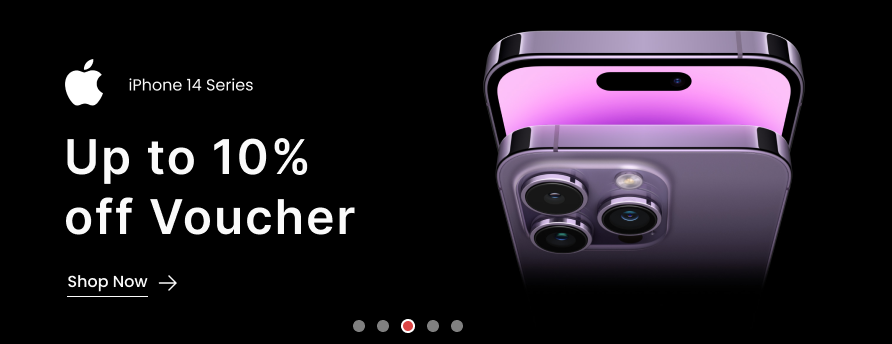
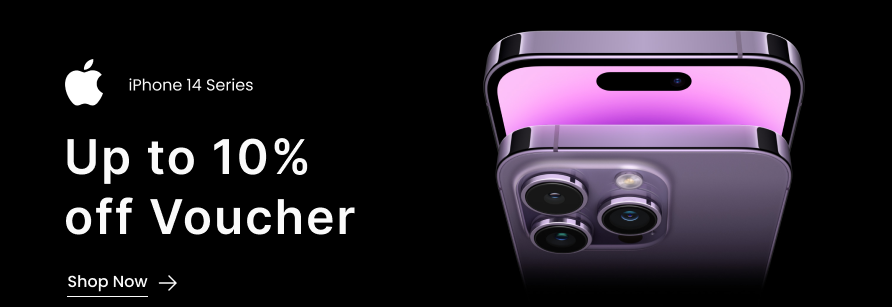
Feat: Enhance product card layout and add new styles for improved design

diff --git a/index.html b/index.html
@@ -16,6 +16,8 @@
     <link rel="stylesheet" href="/assets/css/style.css">
     <link rel="stylesheet" href="https://cdn.jsdelivr.net/npm/swiper@10/swiper-bundle.min.css" />
     <script src="https://cdn.jsdelivr.net/npm/swiper@10/swiper-bundle.min.js"></script>
+    <link rel="stylesheet" href="https://cdnjs.cloudflare.com/ajax/libs/font-awesome/6.5.0/css/all.min.css"
+        crossorigin="anonymous" referrerpolicy="no-referrer" />
 
 </head>
 
@@ -27,7 +29,7 @@
 
     </section>
 
-    <section id="nav" class="mt-7 py-3 mb-2 border-b border-gray-300">
+    <section id="nav" class=" py-2 mb-2 border-b border-gray-300">
         <nav class="max-w-screen-lg mx-auto p-2">
             <div class="flex justify-between items-center gap-1 flex-wrap ">
                 <h2 class="font-extrabold">Exclusive</h2>
@@ -65,13 +67,14 @@
             <div class="banner swiper w-full md:w-3/4">
                 <div class="swiper-wrapper">
                     <div class="swiper-slide">
-                        <img src="./assets/images/nav_banner.png" alt="Banner 1" class="w-full h-auto object-cover">
+                        <img src="./assets/images/nav_banner.png" alt="Banner 1" class="w-full h-[300px] object-cover">
                     </div>
                     <div class="swiper-slide">
-                        <img src="./assets/images/nav_banner.png" alt="Banner 2" class="w-full h-auto object-cover">
+                        <img src="./assets/images/nav_banner2.jpg" alt="Banner 2" class="w-full h-[300px] object-cover">
                     </div>
                     <div class="swiper-slide">
-                        <img src="./assets/images/nav_banner.png" alt="Banner 3" class="w-full h-auto object-cover">
+                        <img src="./assets/images/nav_banner_3.jpg" alt="Banner 3"
+                            class="w-full h-[300px] object-cover">
                     </div>
                 </div>
                 <!-- Add pagination (dots) -->
@@ -88,7 +91,8 @@
                 <a href="#" class="text-red-500 hover:underline">View All Products</a>
             </div>
             <div class="swiper flash-sales-swiper">
-                <div class="swiper-wrapper gap-4 overflow-auto " id="flash-sales-container">
+                <div class="swiper-wrapper gap-4 " id="flash-sales-container">
+
                     <!-- Products will be dynamically inserted here -->
                 </div>
             </div>
@@ -190,18 +194,18 @@
             </div>
             <div>
                 <h3 class="text-lg font-bold mb-2">Quick Links</h3>
-                <ul class="text-sm">
-                    <li><a href="#" class="hover:underline">Home</a></li>
-                    <li><a href="#" class="hover:underline">Contact</a></li>
-                    <li><a href="#" class="hover:underline">About</a></li>
+                <ul class="text-sm  ">
+                    <li class="mb-3" ><a href="#" class="hover:underline ">Home</a></li>
+                    <li class="mb-3" ><a href="#" class="hover:underline">Contact</a></li>
+                    <li class="mb-3" ><a href="#" class="hover:underline">About</a></li>
                 </ul>
             </div>
             <div>
                 <h3 class="text-lg font-bold mb-2">Follow Us</h3>
                 <div class="flex gap-2">
-                    <a href="#" class="hover:text-gray-400"><i class="fa fa-facebook"></i></a>
-                    <a href="#" class="hover:text-gray-400"><i class="fa fa-twitter"></i></a>
-                    <a href="#" class="hover:text-gray-400"><i class="fa fa-instagram"></i></a>
+                    <a href="#" class="hover:text-gray-400"><i class="fa-brands fa-facebook"></i></a>
+                    <a href="#" class="hover:text-gray-400"><i class="fa-brands fa-twitter"></i></a>
+                    <a href="#" class="hover:text-gray-400"><i class="fa-brands fa-instagram"></i></a>
                 </div>
             </div>
         </div>
@@ -223,34 +227,20 @@
             spaceBetween: 10,
         });
 
+
         const flashSalesSwiper = new Swiper('.flash-sales-swiper', {
             loop: true, // Enables infinite scrolling
             pagination: {
                 el: '.swiper-pagination',
-                clickable: false, // Allows clicking on dots to navigate
+                clickable: true, // Allows clicking on dots to navigate
             },
             autoplay: {
                 delay: 3000, // Slides every 3 seconds
                 disableOnInteraction: false, // Keeps autoplay even after user interaction
             },
-            slidesPerView: 1, // Default: 1 slide visible
-            spaceBetween: 10, // Default: 10px space between slides
-            breakpoints: {
-                640: {
-                    slidesPerView: 2, // 2 slides visible on screens >= 640px
-                    spaceBetween: 20, // 20px space between slides
-                },
-                768: {
-                    slidesPerView: 3, // 3 slides visible on screens >= 768px
-                    spaceBetween: 30, // 30px space between slides
-                },
-                1024: {
-                    slidesPerView: 4, // 4 slides visible on screens >= 1024px
-                    spaceBetween: 40, // 40px space between slides
-                },
-            },
+            slidesPerView: 1, // Show 1 slide at a time
+            spaceBetween: 10, // Space between slides
         });
-
 
     </script>
 

diff --git a/assets/css/style.css b/assets/css/style.css
@@ -225,6 +225,12 @@
   .mx-auto {
     margin-inline: auto;
   }
+  .mt-2 {
+    margin-top: calc(var(--spacing) * 2);
+  }
+  .mt-4 {
+    margin-top: calc(var(--spacing) * 4);
+  }
   .mt-6 {
     margin-top: calc(var(--spacing) * 6);
   }
@@ -240,11 +246,20 @@
   .mb-2 {
     margin-bottom: calc(var(--spacing) * 2);
   }
+  .mb-3 {
+    margin-bottom: calc(var(--spacing) * 3);
+  }
   .mb-4 {
     margin-bottom: calc(var(--spacing) * 4);
   }
+  .mb-5 {
+    margin-bottom: calc(var(--spacing) * 5);
+  }
   .mb-6 {
     margin-bottom: calc(var(--spacing) * 6);
+  }
+  .block {
+    display: block;
   }
   .flex {
     display: flex;
@@ -257,6 +272,9 @@
   }
   .h-\[200px\] {
     height: 200px;
+  }
+  .h-\[300px\] {
+    height: 300px;
   }
   .h-auto {
     height: auto;

diff --git a/assets/js/product.js b/assets/js/product.js
@@ -124,7 +124,7 @@ class ProductService {
     // Create product cards
     products.forEach(product => {
       const productCard = `
-        <div class="bg-white shadow rounded group ">
+        <div class="bg-white shadow rounded group">
           <div class="bg-gray-100 p-4 rounded mb-2 relative">
             <img src="${product.image}" alt="${product.name}" class="w-full max-w-[200px] h-[200px] mx-auto object-cover">
             <div class="absolute bottom-0 left-0 right-0 bg-black bg-opacity-75 text-white text-center py-2 opacity-0 group-hover:opacity-100 transition-opacity cursor-pointer">
